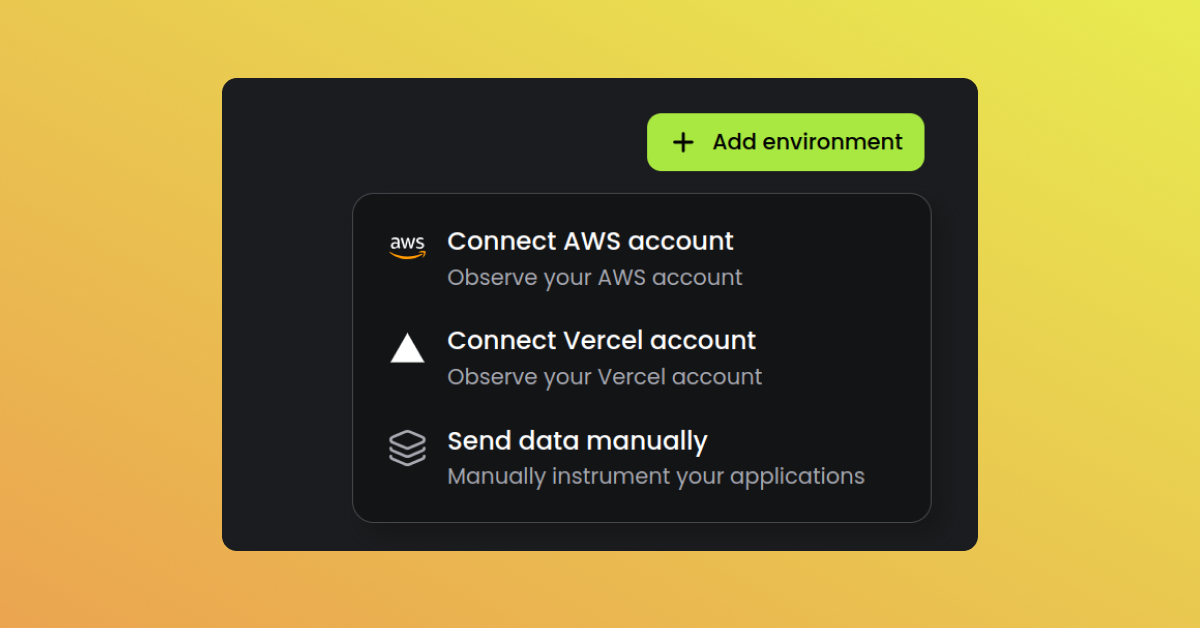
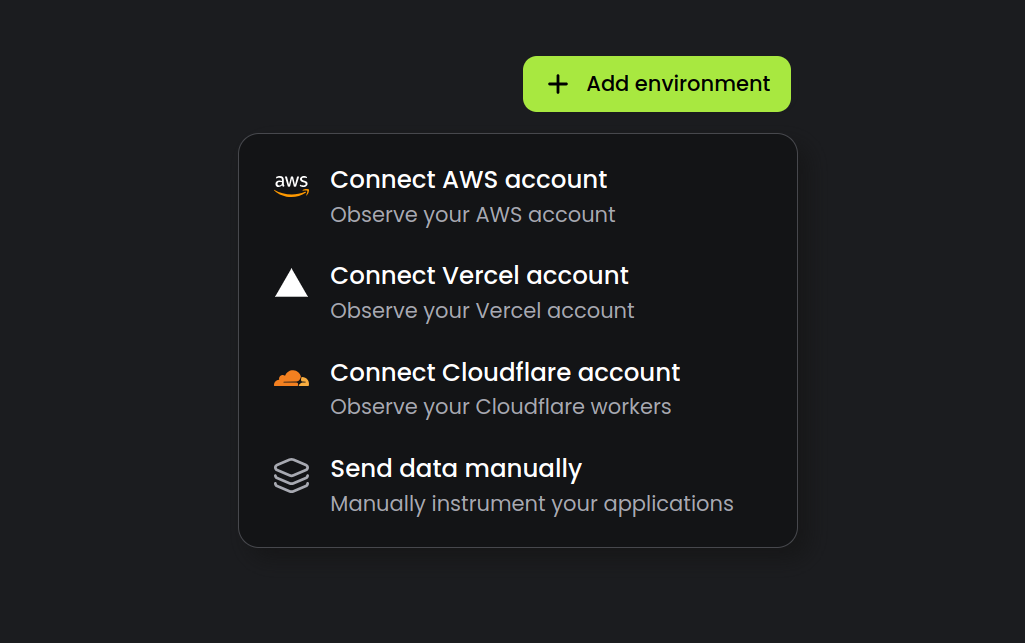
edits to cloudflare docs

diff --git a/sending-data/cloudflare.md b/sending-data/cloudflare.md
@@ -1,50 +1,59 @@
 ---
-label: Cloudflare
+label: Cloudflare Workers
 order: -3
 ---
-# Baselime Cloudflare Integration
+# Cloudflare Workers
 
-Baselime offers advanced monitoring capabilities for applications running on Cloudflare workers. This guide will help you connect your Cloudflare account to Baselime, enabling you to monitor your Cloudflare Workers effectively.
+Cloudflare Workers are an edge plateform that enabled developers to build serverless applications and deploy instantly across the globe for exceptional performance, reliability, and scale.
 
-!!! Note
-Requires Cloudflare Workers Pro
+Baselime offers advanced monitoring capabilities for applications running on Cloudflare Workers. This guide will help you connect your Cloudflare account to Baselime, enabling you to monitor your Cloudflare Workers effectively.
+
+---
+
+## Using Logpush
+
+!!!
+Logpush is available only to accounts subscribed to Cloudflare Workers Pro
 !!!
 
-## 1. Create an API Token
+Baselime connects to your Cloudflare account and enables Logpush to stream your Worker Trave Event Logs to Baselime. You can connect your account in 3 steps:
 
-To get started, you need to create an API token for your Cloudflare account. This token will allow Baselime to access the necessary data. Follow these steps:
+### 1. Create an API Token
 
-**Step 1:** Go to the Cloudflare [Dashboard API Tokens page](https://dash.cloudflare.com/profile/api-tokens).
+To get started, you need to create an API token for your Cloudflare account. This token will enable Baselime to access create the Logpush and add metadata to your events once they are ingested into Baselime.
 
-**Step 2:** Create a user API token with the following permissions:
+Go to the Cloudflare [Dashboard API Tokens page](https://dash.cloudflare.com/profile/api-tokens) and create a user API token with the following permissions:
 
 - **Logs - Edit:** This permission is required to set up logpush configurations to collect logs from Cloudflare.
 - **Account Settings - Read:** This permission is needed to list the accounts and add them to Baselime automatically.
 
-!!! Note
-Learn more about api tokens in the [Cloudflare Docs](https://developers.cloudflare.com/fundamentals/api/get-started/create-token/)
+Select all the Cloudflare accounts you want to observe in Baselime.
+![Cloudflare Token Creation](../assets/images/illustrations/sending-data/cloudflare/create-cloudflare-token.png)
+
+!!!
+Learn more about API tokens in the [Cloudflare Docs](https://developers.cloudflare.com/fundamentals/api/get-started/create-token/)
 !!!
 
-Make sure to grant access to each Cloudflare account you want to connect to Baselime.
-![Cloudflare Token Creation](../assets/images/illustrations/sending-data/create-cloudflare-token.png)
 
-## 2. Add Your Cloudflare Account to Baselime
+### 2. Connect Your Cloudflare Account to Baselime
 
-Once you have your API token, follow these steps to connect your Cloudflare account to Baselime:
+Use the API Token you created in the previous step to connect your Cloudflare account to Baselime in the [Baselime console](https://console.baselime.io).
 
-**Step 1:** In the Baselime platform, select "Connect Cloudflare Account."
+**Step 1:** Create a new environment
 
-![Add Environment](../assets/images/illustrations/sending-data/create-new-env.png)
+![Add Environment](../assets/images/illustrations/sending-data/cloudflare/create-new-env.png)
 
 **Step 2:** Add the API token you created in the previous step and connect your Cloudflare account.
 
-## 3. Enable Logpush on Your Cloudflare Workers
+![Add your API Token](../assets/images/illustrations/sending-data/cloudflare/cloudflare-token.png)
 
-To complete the setup, you'll need to enable logpush on your Cloudflare workers. Follow the Cloudflare documentation to learn how to do this:
+### 3. Enable Logpush on Your Cloudflare Workers
 
-Add `logpush = true` to the top level section of your Workers wrangler.toml file
+To complete the setup, it's necessary to enable Logpush on your Cloudflare workers.
 
-```toml
+Add `logpush = true` to the top level section of your Workers `wrangler.toml` file
+
+```toml # :icon-code: wrangler.toml
 # Top-level configuration
 
 name = "my-worker"
@@ -56,6 +65,10 @@ logpush = true
 route = { pattern = "example.org/*", zone_name = "example.org" }
 ```
 
-Check out the [Cloudflare documentation](https://developers.cloudflare.com/workers/observability/logpush/#enable-logging-on-your-worker) on enabling logpush for your Cloudflare workers.
+!!!
+Learn more about [enabling Logpush on your Cloudflare workers](https://developers.cloudflare.com/workers/observability/logpush/#enable-logging-on-your-worker).
+!!!
 
-By following these steps, you'll successfully connect your Cloudflare account to Baselime and enable the necessary logging for monitoring your Cloudflare workers effectively.
+### 4. Using the Cloudflare Workers Logpush integration
+
+Once you've connected your Cloudflare account to Baselime, all your Workers Trace Events will be available in Baselime. You can search, query or tail your logs from the console and the CLI. You can create alerts from derived metrics from your logs. You can use our dashboard templates to create dashboards based on your Cloudflare events, and modify them at will.

diff --git a/sending-data/index.md b/sending-data/index.md
@@ -15,6 +15,9 @@ Baselime supports a variety of data sources, including logs, metrics, traces, an
 ### Vercel
 [!ref icon="../assets/images/logos/vercel.png"](./vercel.md)
 
+### Cloudflare
+[!ref icon="../assets/images/logos/cloudflare.png"](./cloudflare.md)
+
 ### AWS
 [!ref icon="../assets/images/logos/logo_aws_lambda.png"](./aws/lambda-logs.md)
 [!ref icon="../assets/images/logos/logo_ecs_logs.png"](./aws/ecs-logs.md)
